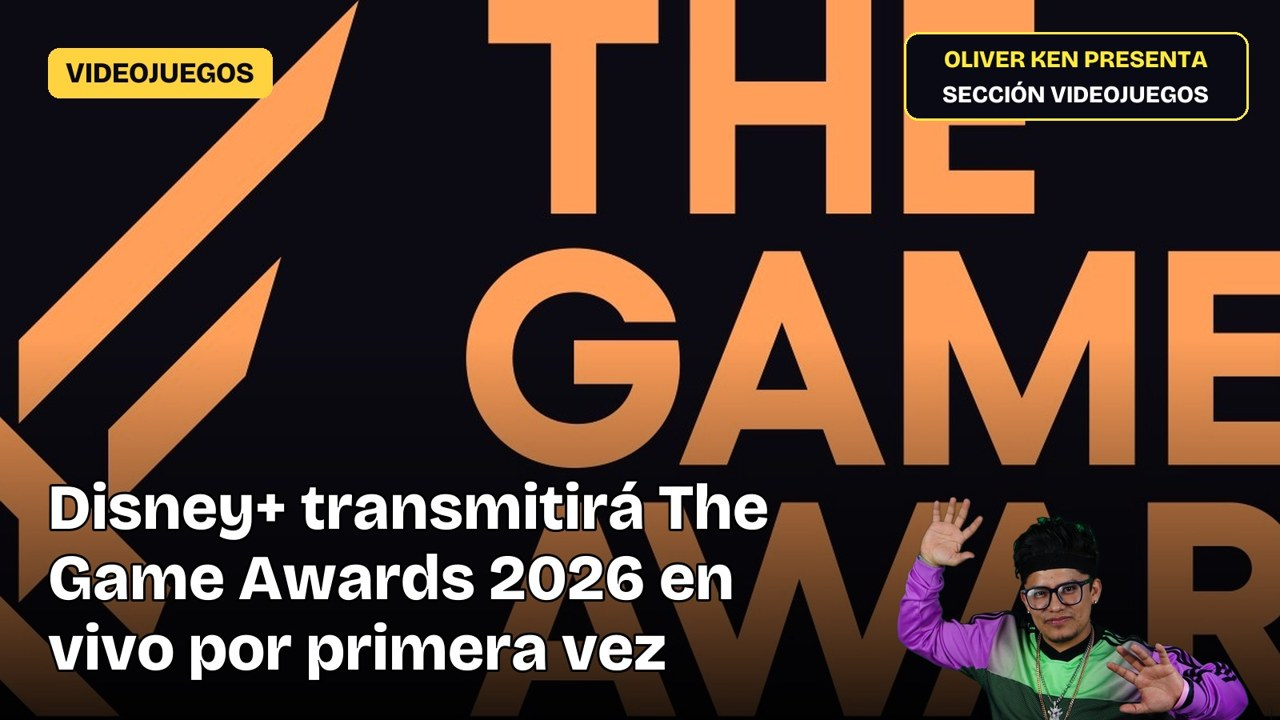
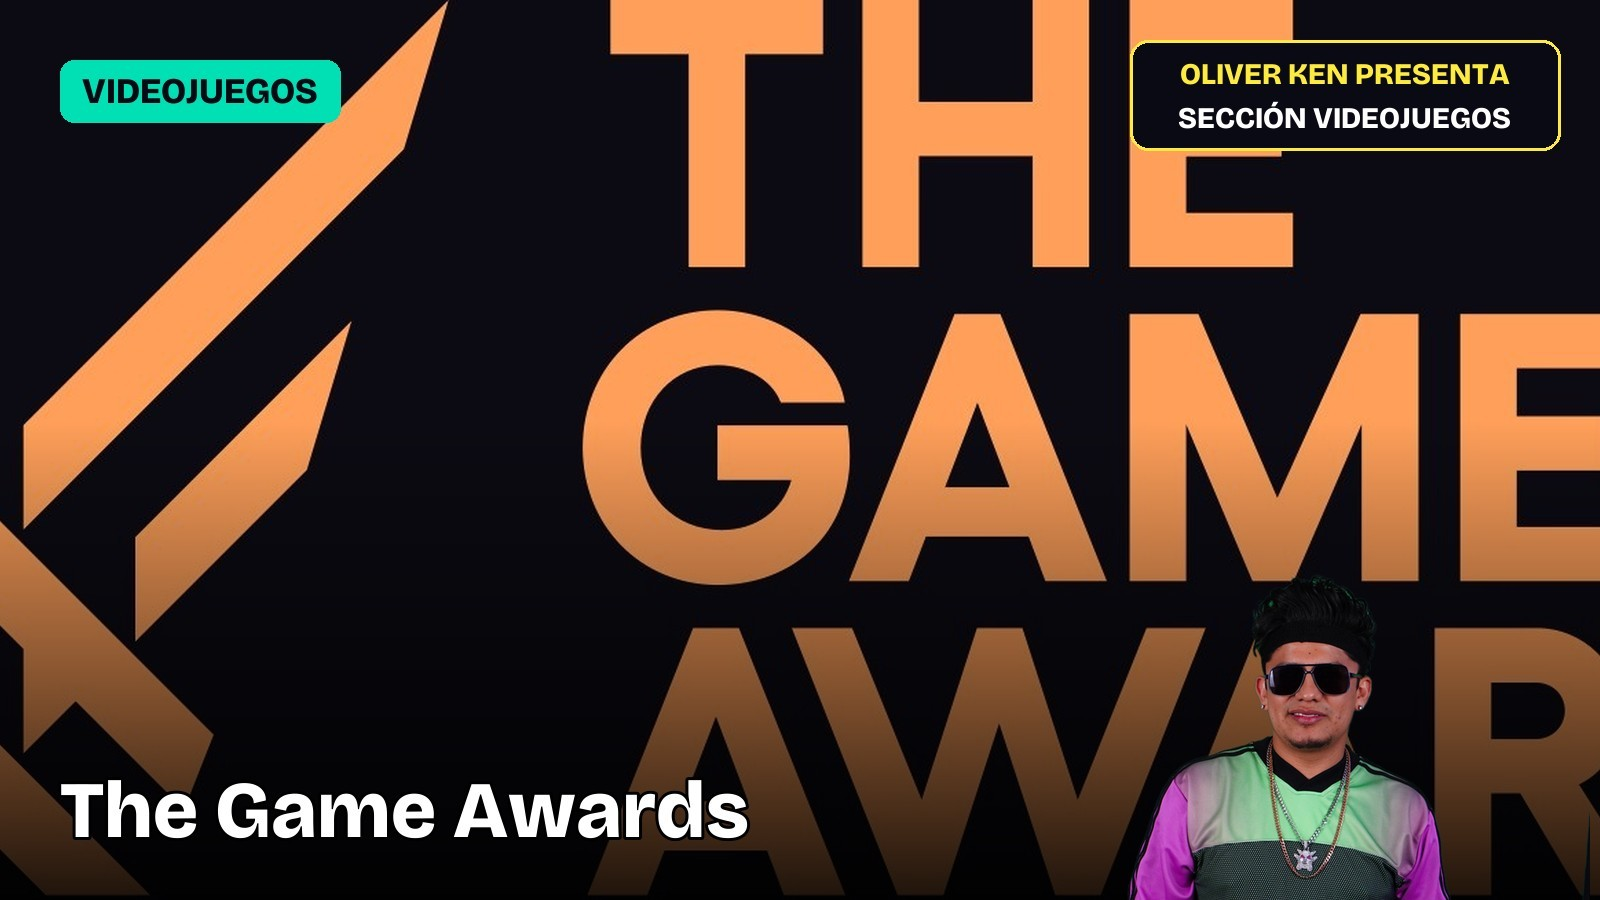
[bot] Portada — 2026-11-13 11:45

Changed region(s): [[0.0312, 0.6722, 0.625, 0.9472], [0.6875, 0.6722, 1.0, 1.0], [0.0312, 0.0611, 0.2188, 0.1528]]

diff --git a/notas/disney-transmitira-the-game-awards-2026-en-vivo-1113.html b/notas/disney-transmitira-the-game-awards-2026-en-vivo-1113.html
@@ -10,8 +10,8 @@
 <meta name="twitter:description" content="The Game Awards 2026 se transmitirán por primera vez en vivo a través de Disney+."><meta name="twitter:image" content="https://enelensayomedia.com/img/notas/disney-transmitira-the-game-awards-2026-en-vivo-1113.jpg">
 <link href="https://fonts.googleapis.com/css2?family=Manrope:wght@400;600;800&family=Space+Mono:wght@400;700&display=swap" rel="stylesheet">
 <link rel="alternate" type="application/rss+xml" title="En El Ensayo Media" href="https://enelensayomedia.com/feed.xml">
-<script type="application/ld+json">{"@context": "https://schema.org", "@type": "NewsArticle", "headline": "Disney+ transmitirá The Game Awards 2026 en vivo", "description": "The Game Awards 2026 se transmitirán por primera vez en vivo a través de Disney+.", "datePublished": "2026-11-13T11:44:53", "author": {"@type": "Organization", "name": "En El Ensayo Media"}, "publisher": {"@type": "Organization", "name": "En El Ensayo Media", "url": "https://enelensayomedia.com"}, "image": ["https://enelensayomedia.com/img/notas/disney-transmitira-the-game-awards-2026-en-vivo-1113.jpg"]}</script>
-<script type="application/ld+json">{"@context": "https://schema.org", "@type": "BreadcrumbList", "itemListElement": [{"@type": "ListItem", "position": 1, "name": "En El Ensayo Media", "item": "https://enelensayomedia.com/"}, {"@type": "ListItem", "position": 2, "name": "Reportaje", "item": "https://enelensayomedia.com/noticias.html"}, {"@type": "ListItem", "position": 3, "name": "Disney+ transmitirá The Game Awards 2026 en vivo", "item": "https://enelensayomedia.com/notas/disney-transmitira-the-game-awards-2026-en-vivo-1113.html"}]}</script>
+<script type="application/ld+json">{"@context": "https://schema.org", "@type": "NewsArticle", "headline": "Disney+ transmitirá The Game Awards 2026 en vivo", "description": "The Game Awards 2026 se transmitirán por primera vez en vivo a través de Disney+.", "datePublished": "2026-11-13T11:44:53", "author": {"@type": "Person", "name": "Oliver Ken"}, "publisher": {"@type": "Organization", "name": "En El Ensayo Media", "url": "https://enelensayomedia.com"}, "image": ["https://enelensayomedia.com/img/notas/disney-transmitira-the-game-awards-2026-en-vivo-1113.jpg"]}</script>
+<script type="application/ld+json">{"@context": "https://schema.org", "@type": "BreadcrumbList", "itemListElement": [{"@type": "ListItem", "position": 1, "name": "En El Ensayo Media", "item": "https://enelensayomedia.com/"}, {"@type": "ListItem", "position": 2, "name": "Videojuegos", "item": "https://enelensayomedia.com/videojuegos.html"}, {"@type": "ListItem", "position": 3, "name": "Disney+ transmitirá The Game Awards 2026 en vivo", "item": "https://enelensayomedia.com/notas/disney-transmitira-the-game-awards-2026-en-vivo-1113.html"}]}</script>
 <style>
 :root{--tinta:#0b0812;--y:#FFEB3B;--i:#673AB7;--linea:#e4e1ea;--mono:'Space Mono',ui-monospace,monospace}
 *{box-sizing:border-box}body{margin:0;background:#fff;color:var(--tinta);font-family:Manrope,system-ui,sans-serif;line-height:1.7}
@@ -64,8 +64,8 @@ article blockquote{font-size:1.3rem;padding-left:16px}.cta{padding:16px}.video.v
 </style><meta name="google-adsense-account" content="ca-pub-5230441592261869"><script async src="https://pagead2.googlesyndication.com/pagead/js/adsbygoogle.js?client=ca-pub-5230441592261869" crossorigin="anonymous"></script><link rel="preconnect" href="https://fonts.gstatic.com" crossorigin><link href="https://fonts.googleapis.com/css2?family=Bricolage+Grotesque:opsz,wght@12..96,500;12..96,700;12..96,800&display=swap" rel="stylesheet"><link rel="manifest" href="/manifest.webmanifest"><meta name="theme-color" content="#0B0812"><link rel="apple-touch-icon" href="/img/icon-192.png"><link rel="stylesheet" href="/css/moderno.css?v=20261101d"></head><body>
 <header class="top"><div class="w"><a class="logo" href="https://enelensayomedia.com">EN EL ENSAYO MEDIA</a><nav><a href="https://enelensayomedia.com/#notas">Notas</a> <a href="https://enelensayomedia.com/#chisme">Chisme</a> <a href="https://enelensayomedia.com/#misterio">Misterio</a> <a href="https://enelensayomedia.com/#deporte">Deporte</a> <a href="https://enelensayomedia.com/#conciertos">Conciertos</a> <a href="https://enelensayomedia.com/#videos">Videos</a> <a href="https://enelensayomedia.com/podcast.html">Podcast</a> <a href="https://enelensayomedia.com/sesiones.html">Sesiones en vivo</a></nav><a class="tg" href="https://t.me/enelensayomedia" target="_blank" rel="noopener">Únete en Telegram</a></div></header>
 <div data-slot="cabecera" class="w" style="padding:8px 20px 0"></div>
-<div class="cabecera"><div class="w"><a class="kicker" href="https://enelensayomedia.com/noticias.html">Reportaje</a><h1>Disney+ transmitirá The Game Awards 2026 en vivo</h1>
-<p class="dek">The Game Awards 2026 se transmitirán por primera vez en vivo a través de Disney+.</p><div class="firma">Por <b>Redacción En el Ensayo Media</b> · 13 de noviembre de 2026 · 11:44</div></div></div>
+<div class="cabecera"><div class="w"><a class="kicker" href="https://enelensayomedia.com/videojuegos.html">Videojuegos</a><h1>Disney+ transmitirá The Game Awards 2026 en vivo</h1>
+<p class="dek">The Game Awards 2026 se transmitirán por primera vez en vivo a través de Disney+.</p><div class="firma">Por <b>Oliver Ken</b> · 13 de noviembre de 2026 · 11:44</div></div></div>
 <div class="pagina w"><article>
 <div class="share">Compartir: <a id="x" href="#" target="_blank" rel="noopener">X</a><a id="fb" href="#" target="_blank" rel="noopener">Facebook</a><a id="wa" href="#" target="_blank" rel="noopener">WhatsApp</a><a id="cp" href="#" onclick="return false">Copiar enlace</a></div>
 <figure class="hero"><picture><source type="image/webp" srcset="https://enelensayomedia.com/img/notas/disney-transmitira-the-game-awards-2026-en-vivo-1113.webp"><img src="https://enelensayomedia.com/img/notas/disney-transmitira-the-game-awards-2026-en-vivo-1113.jpg" alt="Disney+ transmitirá The Game Awards 2026 en vivo" decoding="async"></picture><figcaption>Foto: The Game Awards</figcaption></figure><p>The Game Awards 2026 se transmitirán por primera vez en vivo a través de Disney+. Este movimiento redefine la distribución de la ceremonia más importante de la industria de los videojuegos, ampliando su alcance global de la mano de una de las plataformas de entretenimiento más grandes del mundo. El anuncio marca un precedente en la historia del evento conducido por Geoff Keighley, integrando nuevos mercados internacionales para la gala programada de diciembre.</p><h2>Resumen rápido</h2><p>La ceremonia de The Game Awards 2026 se llevará a cabo el jueves 10 de diciembre, a las 7:30 p.m. ET / 4:30 p.m. PT, desde el Peacock Theater de Los Angeles. Geoff Keighley anunció el 12 de noviembre de 2026 que el show saldrá por Disney+ &#x27;por primera vez en todo el mundo&#x27;. El acuerdo no es exclusivo; la transmisión se sumará a las plataformas habituales como YouTube, Twitch, X, TikTok y canales en China. Existen discrepancias sobre el alcance: mientras el comunicado de Disney habla de &#x27;mercados internacionales seleccionados&#x27;, Keighley menciona &#x27;todo el mundo&#x27;. Además, Disney prometió estrenos mundiales, anuncios de juegos y la presentación de sus títulos más esperados en videojuegos.</p><h2>Por qué importa</h2><p>La incorporación de Disney+ a la transmisión en vivo de The Game Awards representa un cambio significativo en la estrategia de difusión de la gala. Este movimiento sigue la pauta de expansión observada en ediciones anteriores, como en 2025, cuando Amazon Prime Video transmitió el evento por primera vez junto a las plataformas tradicionales. La llegada de grandes conglomerados de streaming a la ceremonia consolida la relevancia cultural y comercial del evento, posicionándolo ante audiencias masivas fuera del ecosistema nativo de internet y abriendo la puerta a anuncios exclusivos de franquicias globales.</p>
